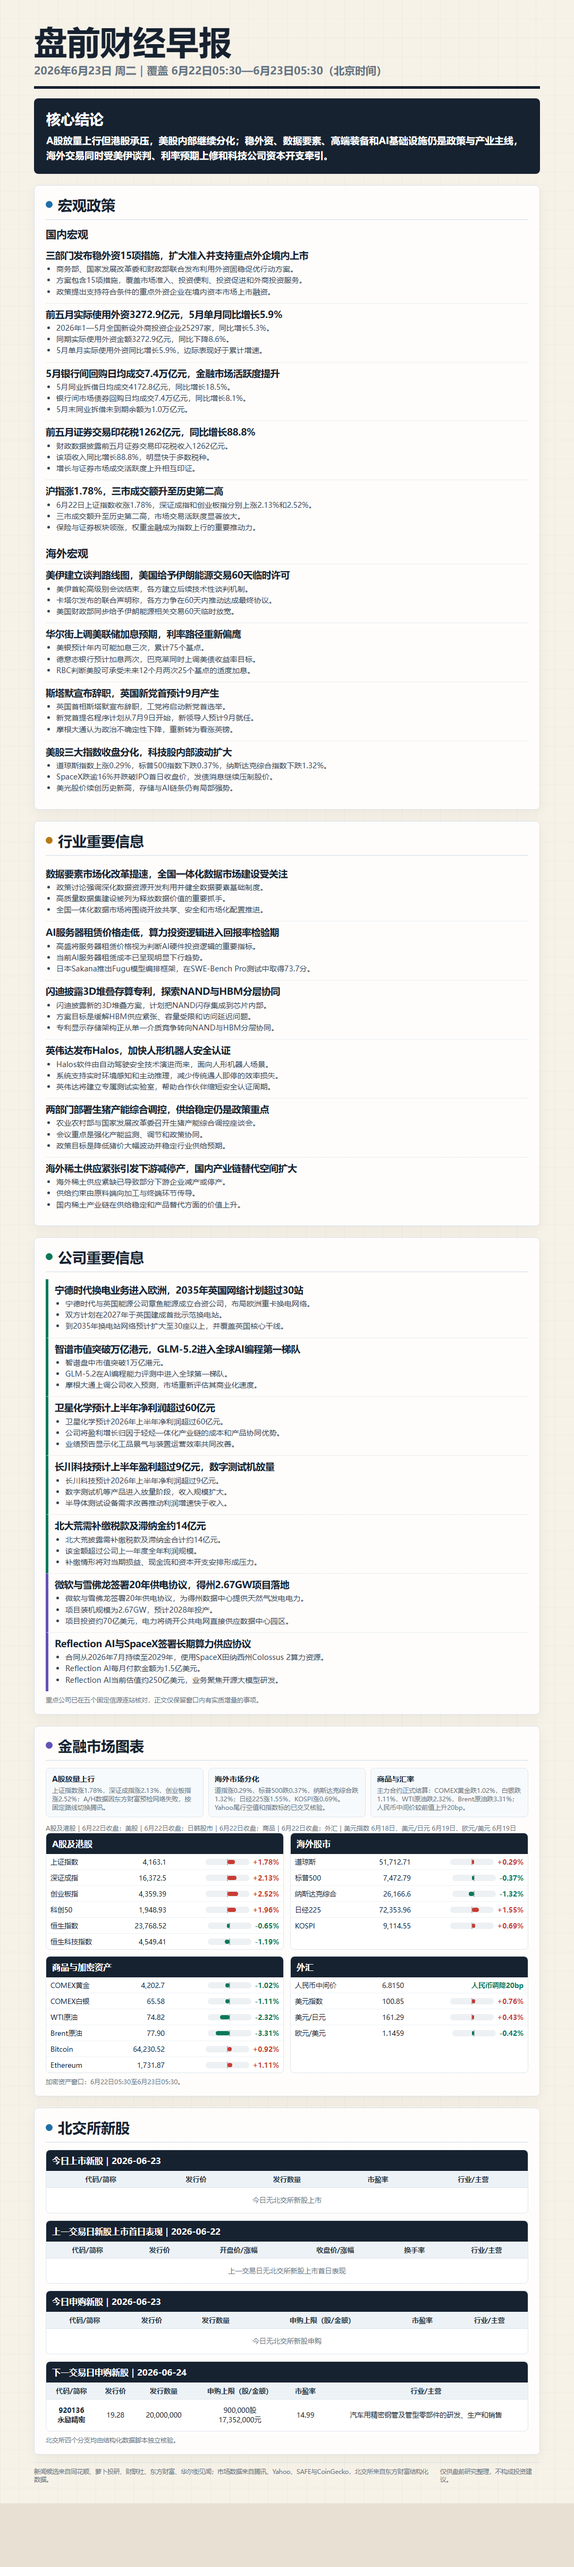
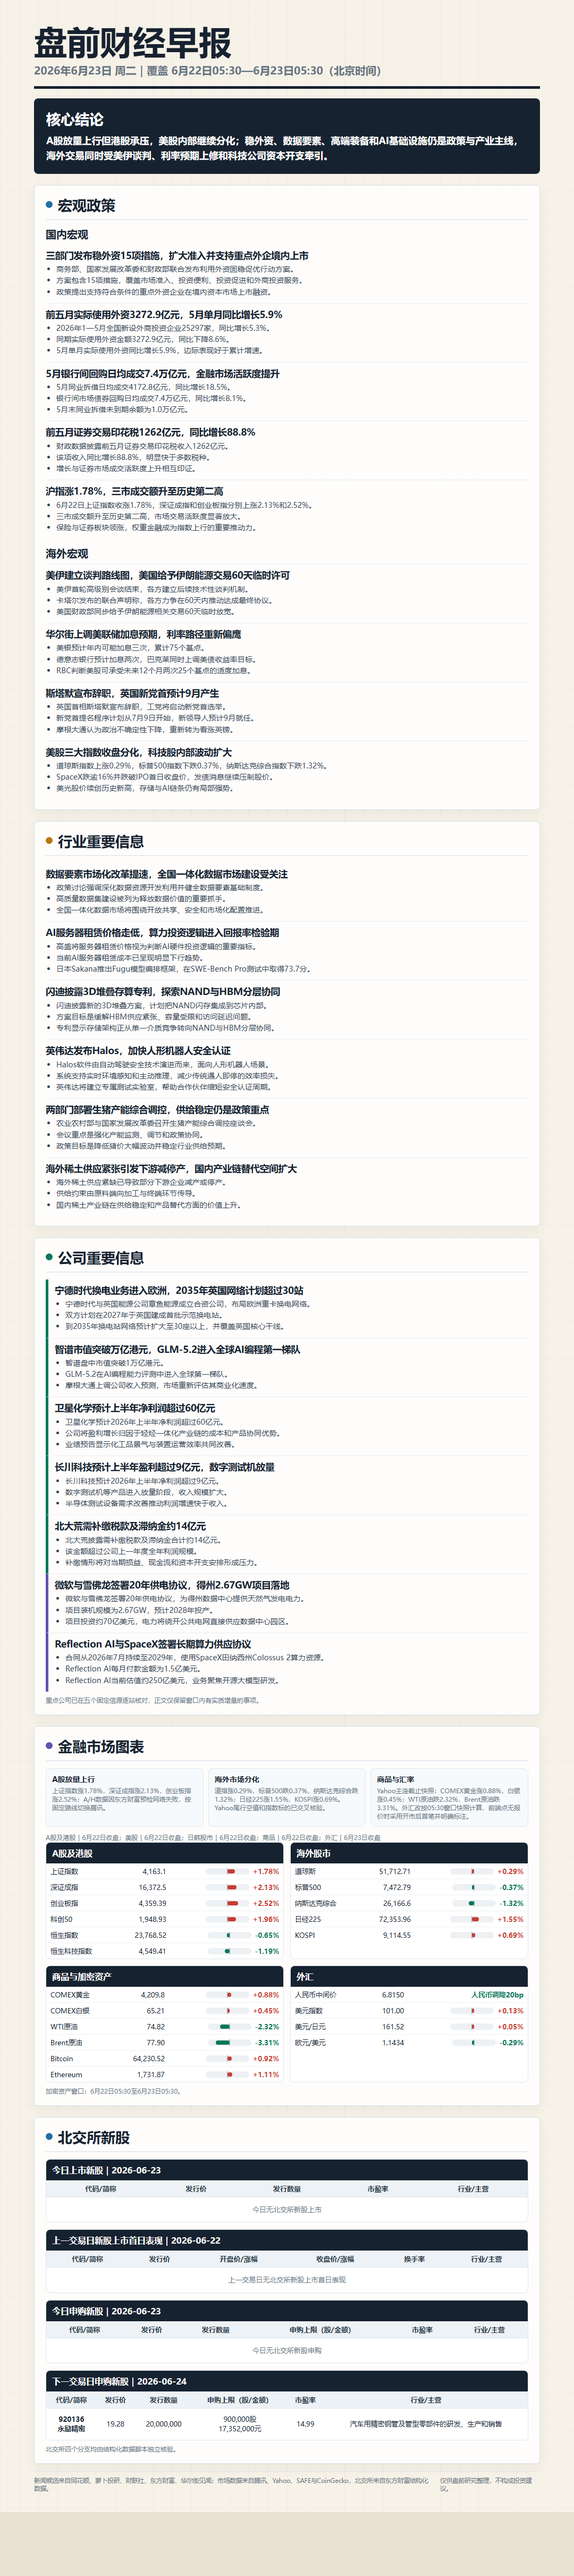
Publish 2026-06-23 morning brief

diff --git a/2026-06-23/report.html b/2026-06-23/report.html
@@ -115,7 +115,7 @@
       <h4>Reflection AI与SpaceX签署长期算力供应协议</h4>
       <ul><li>合同从2026年7月持续至2029年，使用SpaceX田纳西州Colossus 2算力资源。</li><li>Reflection AI每月付款金额为1.5亿美元。</li><li>Reflection AI当前估值约250亿美元，业务聚焦开源大模型研发。</li></ul>
     </article><p class="check-note">重点公司已在五个固定信源逐站核对，正文仅保留窗口内有实质增量的事项。</p></section>
-  <section class="section"><h2 class="section-title"><span class="dot" style="background:var(--violet)"></span>金融市场图表</h2><div class="market-headlines"><div class="market-note"><b>A股放量上行</b><span>上证指数涨1.78%，深证成指涨2.13%，创业板指涨2.52%；A/H数据因东方财富预检网络失败，按固定路线切换腾讯。</span></div><div class="market-note"><b>海外市场分化</b><span>道指涨0.29%，标普500跌0.37%，纳斯达克综合跌1.32%；日经225涨1.55%，KOSPI涨0.69%。Yahoo尾行空值和指数标的已交叉核验。</span></div><div class="market-note"><b>商品与汇率</b><span>主力合约正式结算：COMEX黄金跌1.02%，白银跌1.11%，WTI原油跌2.32%，Brent原油跌3.31%；人民币中间价较前值上升20bp。</span></div></div><p class="market-caption">A股及港股｜6月22日收盘；美股｜6月22日收盘；日韩股市｜6月22日收盘；商品｜6月22日收盘；外汇｜美元指数 6月18日、美元/日元 6月19日、欧元/美元 6月19日</p><div class="market-grid"><div class="market-box"><h3>A股及港股</h3><table><tr><td>上证指数</td><td>4,163.1</td><td><span class="bar-wrap"><span class="bar pos upb" style="width:14.2px"></span></span><span class="up">+1.78%</span></td></tr><tr><td>深证成指</td><td>16,372.5</td><td><span class="bar-wrap"><span class="bar pos upb" style="width:17.1px"></span></span><span class="up">+2.13%</span></td></tr><tr><td>创业板指</td><td>4,359.39</td><td><span class="bar-wrap"><span class="bar pos upb" style="width:20.1px"></span></span><span class="up">+2.52%</span></td></tr><tr><td>科创50</td><td>1,948.93</td><td><span class="bar-wrap"><span class="bar pos upb" style="width:15.7px"></span></span><span class="up">+1.96%</span></td></tr><tr><td>恒生指数</td><td>23,768.52</td><td><span class="bar-wrap"><span class="bar neg downb" style="width:5.2px"></span></span><span class="down">-0.65%</span></td></tr><tr><td>恒生科技指数</td><td>4,549.41</td><td><span class="bar-wrap"><span class="bar neg downb" style="width:9.5px"></span></span><span class="down">-1.19%</span></td></tr></table></div><div class="market-box"><h3>海外股市</h3><table><tr><td>道琼斯</td><td>51,712.71</td><td><span class="bar-wrap"><span class="bar pos upb" style="width:4.0px"></span></span><span class="up">+0.29%</span></td></tr><tr><td>标普500</td><td>7,472.79</td><td><span class="bar-wrap"><span class="bar neg downb" style="width:4.0px"></span></span><span class="down">-0.37%</span></td></tr><tr><td>纳斯达克综合</td><td>26,166.6</td><td><span class="bar-wrap"><span class="bar neg downb" style="width:10.6px"></span></span><span class="down">-1.32%</span></td></tr><tr><td>日经225</td><td>72,353.96</td><td><span class="bar-wrap"><span class="bar pos upb" style="width:12.4px"></span></span><span class="up">+1.55%</span></td></tr><tr><td>KOSPI</td><td>9,114.55</td><td><span class="bar-wrap"><span class="bar pos upb" style="width:5.5px"></span></span><span class="up">+0.69%</span></td></tr></table></div><div class="market-box"><h3>商品与加密资产</h3><table><tr><td>COMEX黄金</td><td>4,202.7</td><td><span class="bar-wrap"><span class="bar neg downb" style="width:8.1px"></span></span><span class="down">-1.02%</span></td></tr><tr><td>COMEX白银</td><td>65.58</td><td><span class="bar-wrap"><span class="bar neg downb" style="width:8.9px"></span></span><span class="down">-1.11%</span></td></tr><tr><td>WTI原油</td><td>74.82</td><td><span class="bar-wrap"><span class="bar neg downb" style="width:18.6px"></span></span><span class="down">-2.32%</span></td></tr><tr><td>Brent原油</td><td>77.90</td><td><span class="bar-wrap"><span class="bar neg downb" style="width:26.5px"></span></span><span class="down">-3.31%</span></td></tr><tr><td>Bitcoin</td><td>64,230.52</td><td><span class="bar-wrap"><span class="bar pos upb" style="width:7.4px"></span></span><span class="up">+0.92%</span></td></tr><tr><td>Ethereum</td><td>1,731.87</td><td><span class="bar-wrap"><span class="bar pos upb" style="width:8.9px"></span></span><span class="up">+1.11%</span></td></tr></table></div><div class="market-box"><h3>外汇</h3><table><tr><td>人民币中间价</td><td>6.8150</td><td><span class="down">人民币调降20bp</span></td></tr><tr><td>美元指数</td><td>100.85</td><td><span class="bar-wrap"><span class="bar pos upb" style="width:6.1px"></span></span><span class="up">+0.76%</span></td></tr><tr><td>美元/日元</td><td>161.29</td><td><span class="bar-wrap"><span class="bar pos upb" style="width:4.0px"></span></span><span class="up">+0.43%</span></td></tr><tr><td>欧元/美元</td><td>1.1459</td><td><span class="bar-wrap"><span class="bar neg downb" style="width:4.0px"></span></span><span class="down">-0.42%</span></td></tr></table></div></div><p class="market-caption">加密资产窗口：6月22日05:30至6月23日05:30。</p></section>
+  <section class="section"><h2 class="section-title"><span class="dot" style="background:var(--violet)"></span>金融市场图表</h2><div class="market-headlines"><div class="market-note"><b>A股放量上行</b><span>上证指数涨1.78%，深证成指涨2.13%，创业板指涨2.52%；A/H数据因东方财富预检网络失败，按固定路线切换腾讯。</span></div><div class="market-note"><b>海外市场分化</b><span>道指涨0.29%，标普500跌0.37%，纳斯达克综合跌1.32%；日经225涨1.55%，KOSPI涨0.69%。Yahoo尾行空值和指数标的已交叉核验。</span></div><div class="market-note"><b>商品与汇率</b><span>Yahoo主连截止快照：COMEX黄金涨0.88%，白银涨0.45%；WTI原油跌2.32%，Brent原油跌3.31%。外汇改按05:30窗口快照计算，前端点无报价时采用开市后首笔并明确标注。</span></div></div><p class="market-caption">A股及港股｜6月22日收盘；美股｜6月22日收盘；日韩股市｜6月22日收盘；商品｜6月22日收盘；外汇｜6月23日收盘</p><div class="market-grid"><div class="market-box"><h3>A股及港股</h3><table><tr><td>上证指数</td><td>4,163.1</td><td><span class="bar-wrap"><span class="bar pos upb" style="width:14.2px"></span></span><span class="up">+1.78%</span></td></tr><tr><td>深证成指</td><td>16,372.5</td><td><span class="bar-wrap"><span class="bar pos upb" style="width:17.1px"></span></span><span class="up">+2.13%</span></td></tr><tr><td>创业板指</td><td>4,359.39</td><td><span class="bar-wrap"><span class="bar pos upb" style="width:20.1px"></span></span><span class="up">+2.52%</span></td></tr><tr><td>科创50</td><td>1,948.93</td><td><span class="bar-wrap"><span class="bar pos upb" style="width:15.7px"></span></span><span class="up">+1.96%</span></td></tr><tr><td>恒生指数</td><td>23,768.52</td><td><span class="bar-wrap"><span class="bar neg downb" style="width:5.2px"></span></span><span class="down">-0.65%</span></td></tr><tr><td>恒生科技指数</td><td>4,549.41</td><td><span class="bar-wrap"><span class="bar neg downb" style="width:9.5px"></span></span><span class="down">-1.19%</span></td></tr></table></div><div class="market-box"><h3>海外股市</h3><table><tr><td>道琼斯</td><td>51,712.71</td><td><span class="bar-wrap"><span class="bar pos upb" style="width:4.0px"></span></span><span class="up">+0.29%</span></td></tr><tr><td>标普500</td><td>7,472.79</td><td><span class="bar-wrap"><span class="bar neg downb" style="width:4.0px"></span></span><span class="down">-0.37%</span></td></tr><tr><td>纳斯达克综合</td><td>26,166.6</td><td><span class="bar-wrap"><span class="bar neg downb" style="width:10.6px"></span></span><span class="down">-1.32%</span></td></tr><tr><td>日经225</td><td>72,353.96</td><td><span class="bar-wrap"><span class="bar pos upb" style="width:12.4px"></span></span><span class="up">+1.55%</span></td></tr><tr><td>KOSPI</td><td>9,114.55</td><td><span class="bar-wrap"><span class="bar pos upb" style="width:5.5px"></span></span><span class="up">+0.69%</span></td></tr></table></div><div class="market-box"><h3>商品与加密资产</h3><table><tr><td>COMEX黄金</td><td>4,209.8</td><td><span class="bar-wrap"><span class="bar pos upb" style="width:7.1px"></span></span><span class="up">+0.88%</span></td></tr><tr><td>COMEX白银</td><td>65.21</td><td><span class="bar-wrap"><span class="bar pos upb" style="width:4.0px"></span></span><span class="up">+0.45%</span></td></tr><tr><td>WTI原油</td><td>74.82</td><td><span class="bar-wrap"><span class="bar neg downb" style="width:18.6px"></span></span><span class="down">-2.32%</span></td></tr><tr><td>Brent原油</td><td>77.90</td><td><span class="bar-wrap"><span class="bar neg downb" style="width:26.5px"></span></span><span class="down">-3.31%</span></td></tr><tr><td>Bitcoin</td><td>64,230.52</td><td><span class="bar-wrap"><span class="bar pos upb" style="width:7.4px"></span></span><span class="up">+0.92%</span></td></tr><tr><td>Ethereum</td><td>1,731.87</td><td><span class="bar-wrap"><span class="bar pos upb" style="width:8.9px"></span></span><span class="up">+1.11%</span></td></tr></table></div><div class="market-box"><h3>外汇</h3><table><tr><td>人民币中间价</td><td>6.8150</td><td><span class="down">人民币调降20bp</span></td></tr><tr><td>美元指数</td><td>101.00</td><td><span class="bar-wrap"><span class="bar pos upb" style="width:4.0px"></span></span><span class="up">+0.13%</span></td></tr><tr><td>美元/日元</td><td>161.52</td><td><span class="bar-wrap"><span class="bar pos upb" style="width:4.0px"></span></span><span class="up">+0.05%</span></td></tr><tr><td>欧元/美元</td><td>1.1434</td><td><span class="bar-wrap"><span class="bar neg downb" style="width:4.0px"></span></span><span class="down">-0.29%</span></td></tr></table></div></div><p class="market-caption">加密资产窗口：6月22日05:30至6月23日05:30。</p></section>
   <section class="section"><h2 class="section-title"><span class="dot" style="background:var(--blue)"></span>北交所新股</h2><div class="ipo-box"><h3>今日上市新股｜2026-06-23</h3><table class="ipo-table"><tr><th>代码/简称</th><th>发行价</th><th>发行数量</th><th>市盈率</th><th>行业/主营</th></tr><tr><td class="empty" colspan="5">今日无北交所新股上市</td></tr></table></div><div class="ipo-box"><h3>上一交易日新股上市首日表现｜2026-06-22</h3><table class="ipo-table"><tr><th>代码/简称</th><th>发行价</th><th>开盘价/涨幅</th><th>收盘价/涨幅</th><th>换手率</th><th>行业/主营</th></tr><tr><td class="empty" colspan="6">上一交易日无北交所新股上市首日表现</td></tr></table></div><div class="ipo-box"><h3>今日申购新股｜2026-06-23</h3><table class="ipo-table"><tr><th>代码/简称</th><th>发行价</th><th>发行数量</th><th>申购上限（股/金额）</th><th>市盈率</th><th>行业/主营</th></tr><tr><td class="empty" colspan="6">今日无北交所新股申购</td></tr></table></div><div class="ipo-box"><h3>下一交易日申购新股｜2026-06-24</h3><table class="ipo-table"><tr><th>代码/简称</th><th>发行价</th><th>发行数量</th><th>申购上限（股/金额）</th><th>市盈率</th><th>行业/主营</th></tr><tr><td class="codecell">920136<br>永励精密</td><td>19.28</td><td>20,000,000</td><td class="shares">900,000股<br>17,352,000元</td><td>14.99</td><td>汽车用精密钢管及管型零部件的研发、生产和销售</td></tr></table></div><div class="check-note">北交所四个分支均由结构化数据脚本独立核验。</div></section>
   <footer><div>新闻候选来自同花顺、萝卜投研、财联社、东方财富、华尔街见闻；市场数据来自腾讯、Yahoo、SAFE与CoinGecko，北交所来自东方财富结构化数据。</div><div>仅供盘前研究整理，不构成投资建议。</div></footer>
 </main></body></html>

diff --git a/2026-06-23/sources-2026-06-23.md b/2026-06-23/sources-2026-06-23.md
@@ -27,9 +27,9 @@
 - 海外股指复核：Yahoo 的 `^NDX` 是纳斯达克100，不是早报“美股三大指数”所需的纳斯达克综合；已改用 `^IXIC`。
 - Yahoo 尾行陷阱：`^N225`、`^KS11` 的6月22日日线时间戳已存在但 `close=null`，原采集器因此误退回6月19日。复核使用 Yahoo `meta.regularMarketPrice`，并分别用日经官方收盘页、Investing 历史数据交叉验证。
 - 更正后海外股指：道指51,712.71（+0.29%）、标普500 7,472.79（-0.37%）、纳斯达克综合26,166.60（-1.32%）、日经225 72,353.96（+1.55%）、KOSPI 9,114.55（+0.69%）。
-- 商品复核：Yahoo连续期货的末条5分钟K线被旧结算值回填，且换月导致前收口径错配，不能用于正式日涨跌。黄金和白银按成交活跃主力月份核验：COMEX黄金8月合约GCQ26结算4,202.70（-1.02%），COMEX白银7月合约SIN26结算65.583（-1.11%）；WTI原油74.82（-2.32%）、Brent原油77.90（-3.31%）。
+- 商品复核：重新采集 Yahoo `GC=F`、`SI=F` 5分钟数据。Yahoo 在北京时间04:55插入主连前收基准，不能把该点误当实时成交价；截止价取04:50最后有效成交。黄金为4,209.80，对比主连前收4,172.90，上涨0.88%；白银为65.205，对比主连前收64.910，上涨0.45%。WTI原油74.82（-2.32%）、Brent原油77.90（-3.31%）维持正式结算口径。
 - 外汇日切说明：外汇市场近24小时连续交易，纽约17:00通常作为行业日切点；夏令时对应北京时间05:00，冬令时对应北京时间06:00。若早报坚持05:30执行，推荐使用“本日05:30快照相对前一日05:30快照”的严格24小时涨跌，不建议对比纽约日切开盘价。
-- 外汇复核：北京时间05:30时Yahoo当日外汇日线尚未完成，故按“最新完整交易日”退回6月19日；美元指数因6月19日无有效完成行，保留6月18日。最终为美元指数100.85（+0.76%）、美元/日元161.2890（+0.43%）、欧元/美元1.1459（-0.42%）。
+- 外汇复核：涨跌幅改为“本日05:30价格 / 前一日05:30价格 - 1”，使用Yahoo 1分钟数据。2026-06-23 05:30终点三项均有精确报价；但2026-06-22 05:30处于周末后开市数据空档，Yahoo无报价，不能伪装成精确24小时。按开市后首笔近似：美元指数前端06:00、终点05:30，100.9980/100.8660，+0.13%；美元/日元前端07:00、终点05:30，161.5180/161.4300，+0.05%；欧元/美元前端07:00、终点05:30，1.14338/1.14666，-0.29%。普通工作日若两端均有05:30报价，严格使用精确24小时公式。
 - 人民币中间价：国家外汇管理局；2026-06-22 中间价 6.8150，较前值上升20bp，对应人民币调降。
 - 加密资产：CoinGecko 窗口快照；Bitcoin +0.92%，Ethereum +1.11%。
 - 未使用 Wind。
